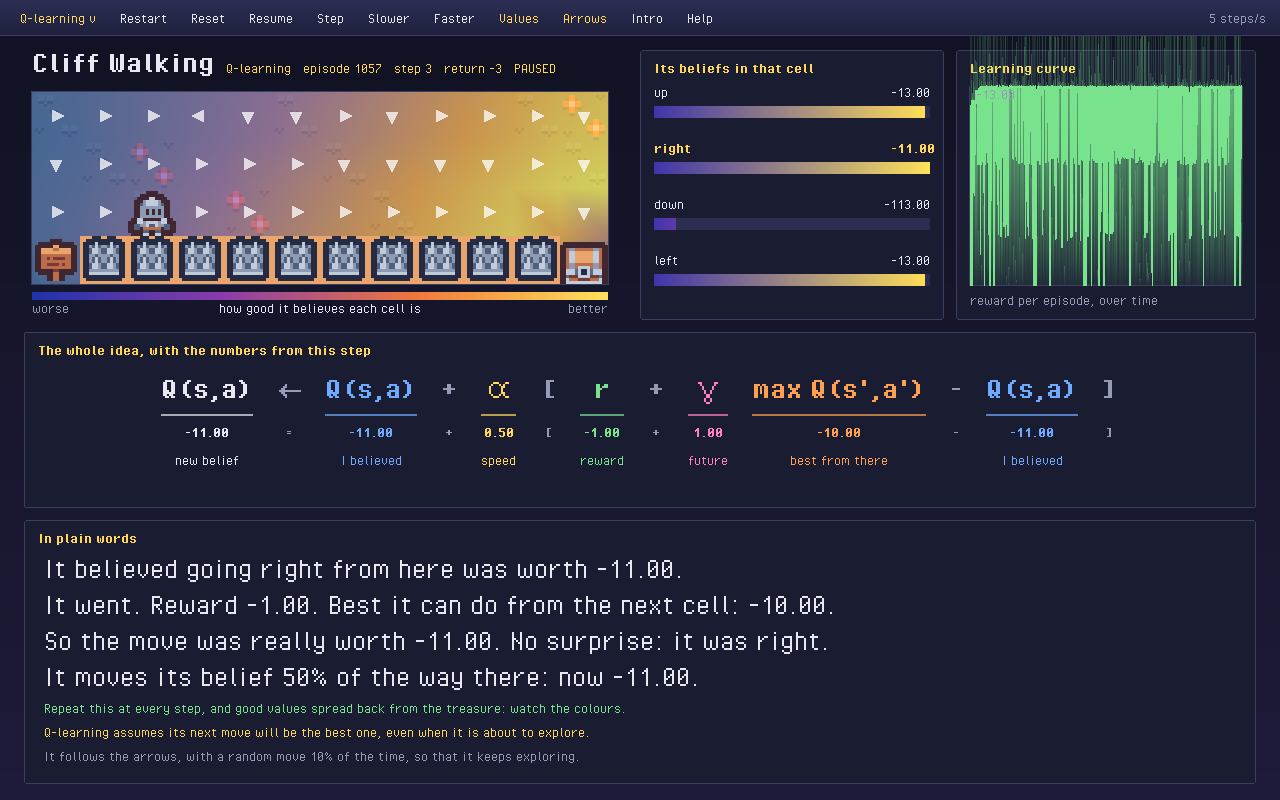
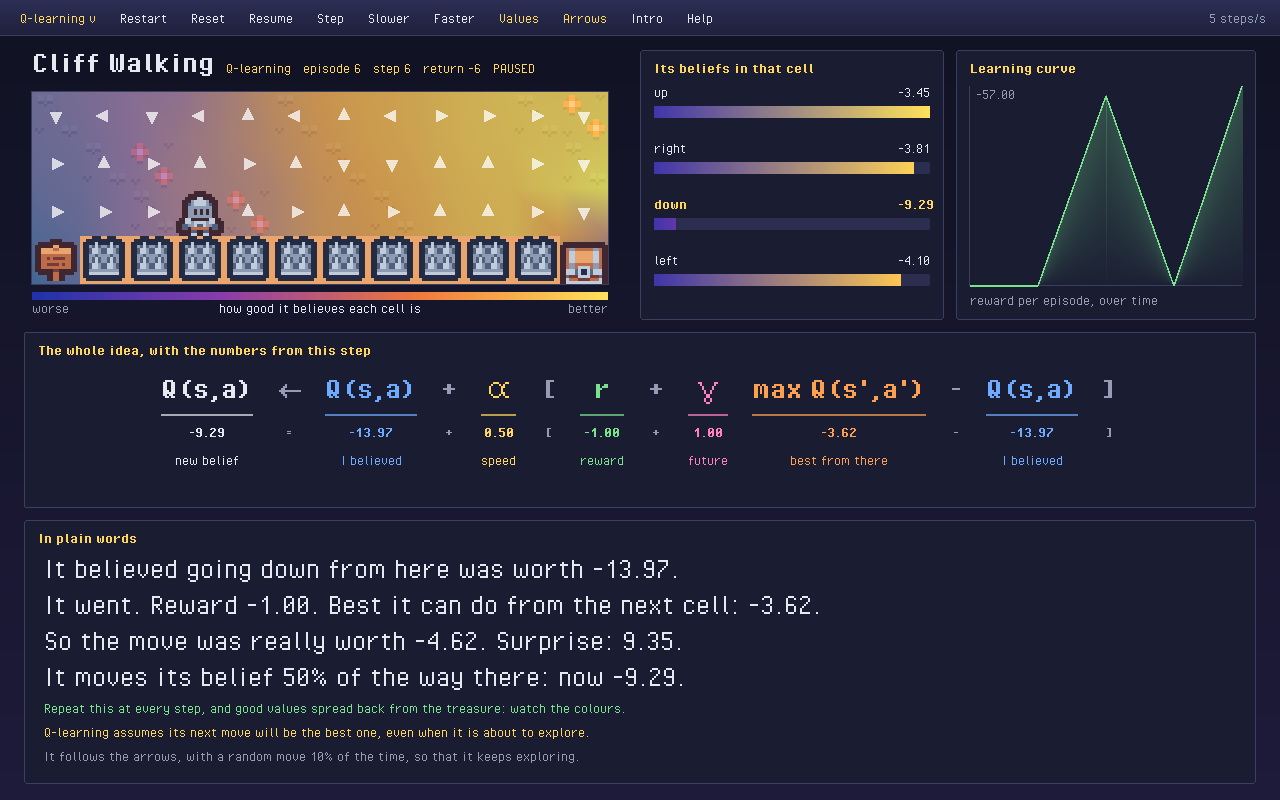
The learning curve stays readable over thousands of episodes
More episodes than columns are averaged into the columns, and the
shading under the line no longer runs above it.

diff --git a/examples/window/studio.hpp b/examples/window/studio.hpp
@@ -556,7 +556,7 @@ private:
         DrawLine(static_cast<int>(x), static_cast<int>(y + h), static_cast<int>(x + w), static_cast<int>(y + h), ink::line);
         DrawLine(static_cast<int>(x), static_cast<int>(y), static_cast<int>(x), static_cast<int>(y + h), ink::line);
         look_.write("reward per episode, over time", x, y + h + 6, 16, ink::dim);
-        const auto & values = now().returns();
+        const auto values = curve_points(now().returns(), static_cast<std::size_t>(w) / 2);
         if (values.size() < 2) {
             return;
         }
@@ -576,7 +576,7 @@ private:
             const float y2 = row(values[i + 1]);
             // the shading under the line, one column of pixels at a time, so that it follows the slope
             for (int column = static_cast<int>(x1); column < static_cast<int>(x2) + 1; column++) {
-                const float along = x2 > x1 ? std::min(1.0f, (static_cast<float>(column) - x1) / (x2 - x1)) : 0.0f;
+                const float along = x2 > x1 ? std::max(0.0f, std::min(1.0f, (static_cast<float>(column) - x1) / (x2 - x1))) : 0.0f;
                 const float surface = y1 + (y2 - y1) * along;
                 DrawRectangleGradientV(column, static_cast<int>(surface), 1, static_cast<int>(y + h - surface),
                                        Fade(ink::reward, 0.26f), Fade(ink::reward, 0.02f));
@@ -714,7 +714,7 @@ private:
         // stop at an update with something to explain: the first, after some learning, with a real surprise
         for (int i = 0; i < 20000; i++) {
             now().step();
-            if (i > 2500 && std::fabs(now().latest().surprise()) > 2 && !now().punished()) {
+            if (i > 900 && std::fabs(now().latest().surprise()) > 2 && !now().punished()) {
                 break;
             }
         }

diff --git a/tests/lesson_test.cpp b/tests/lesson_test.cpp
@@ -469,6 +469,21 @@ TEST_CASE("the colours of the values, and the scale", "[lesson][colours]")
     REQUIRE(lessons::lowest_shown({}, -300) == 0);
 }
 
+TEST_CASE("the points of a learning curve", "[lesson][colours]")
+{
+    // few values are left alone
+    REQUIRE(lessons::curve_points({1, 2, 3}, 3) == std::vector<double>{1, 2, 3});
+    REQUIRE(lessons::curve_points({1, 2, 3}, 0) == std::vector<double>{1, 2, 3});
+    REQUIRE(lessons::curve_points({}, 5).empty());
+    // 4 values into 2 columns are the means of each half
+    REQUIRE(lessons::curve_points({-5, 5, 8, 12}, 2) == std::vector<double>{0, 10});
+    // 5 values into 3 columns: 2, 2 and 1 of them
+    REQUIRE(lessons::curve_points({1, 3, 5, 7, 9}, 3) == std::vector<double>{2, 6, 9});
+    // never more points than columns, whatever the number of episodes
+    REQUIRE(lessons::curve_points(std::vector<double>(100000, -13), 136).size() == 136);
+    REQUIRE(lessons::curve_points(std::vector<double>(100000, -13), 136)[135] == Approx(-13));
+}
+
 TEST_CASE("the drawn symbols", "[lesson][glyphs]")
 {
     for (const char * name : {"alpha", "gamma", "epsilon", "arrow"}) {

diff --git a/examples/window/lesson.hpp b/examples/window/lesson.hpp
@@ -872,6 +872,31 @@ inline double lowest_shown(const std::vector<double> & values,
 }
 
 /**
+ * @brief the points of a learning curve
+ * @param values are the returns of the episodes, oldest first
+ * @param columns is the most points there is room for
+ * @return @param values, or, if there are more of them than columns, the mean of those falling in each column
+ */
+inline std::vector<double> curve_points(const std::vector<double> & values,
+                                        std::size_t columns)
+{
+    if (values.size() <= columns || columns == 0) {
+        return values;
+    }
+    std::vector<double> sums(columns, 0);
+    std::vector<std::size_t> counts(columns, 0);
+    for (std::size_t i = 0; i < values.size(); i++) {
+        const std::size_t column = i * columns / values.size();
+        sums[column] += values[i];
+        counts[column]++;
+    }
+    for (std::size_t c = 0; c < columns; c++) {
+        sums[c] /= static_cast<double>(counts[c]);
+    }
+    return sums;
+}
+
+/**
  * @struct info
  * @brief what a lesson says about itself
  */
